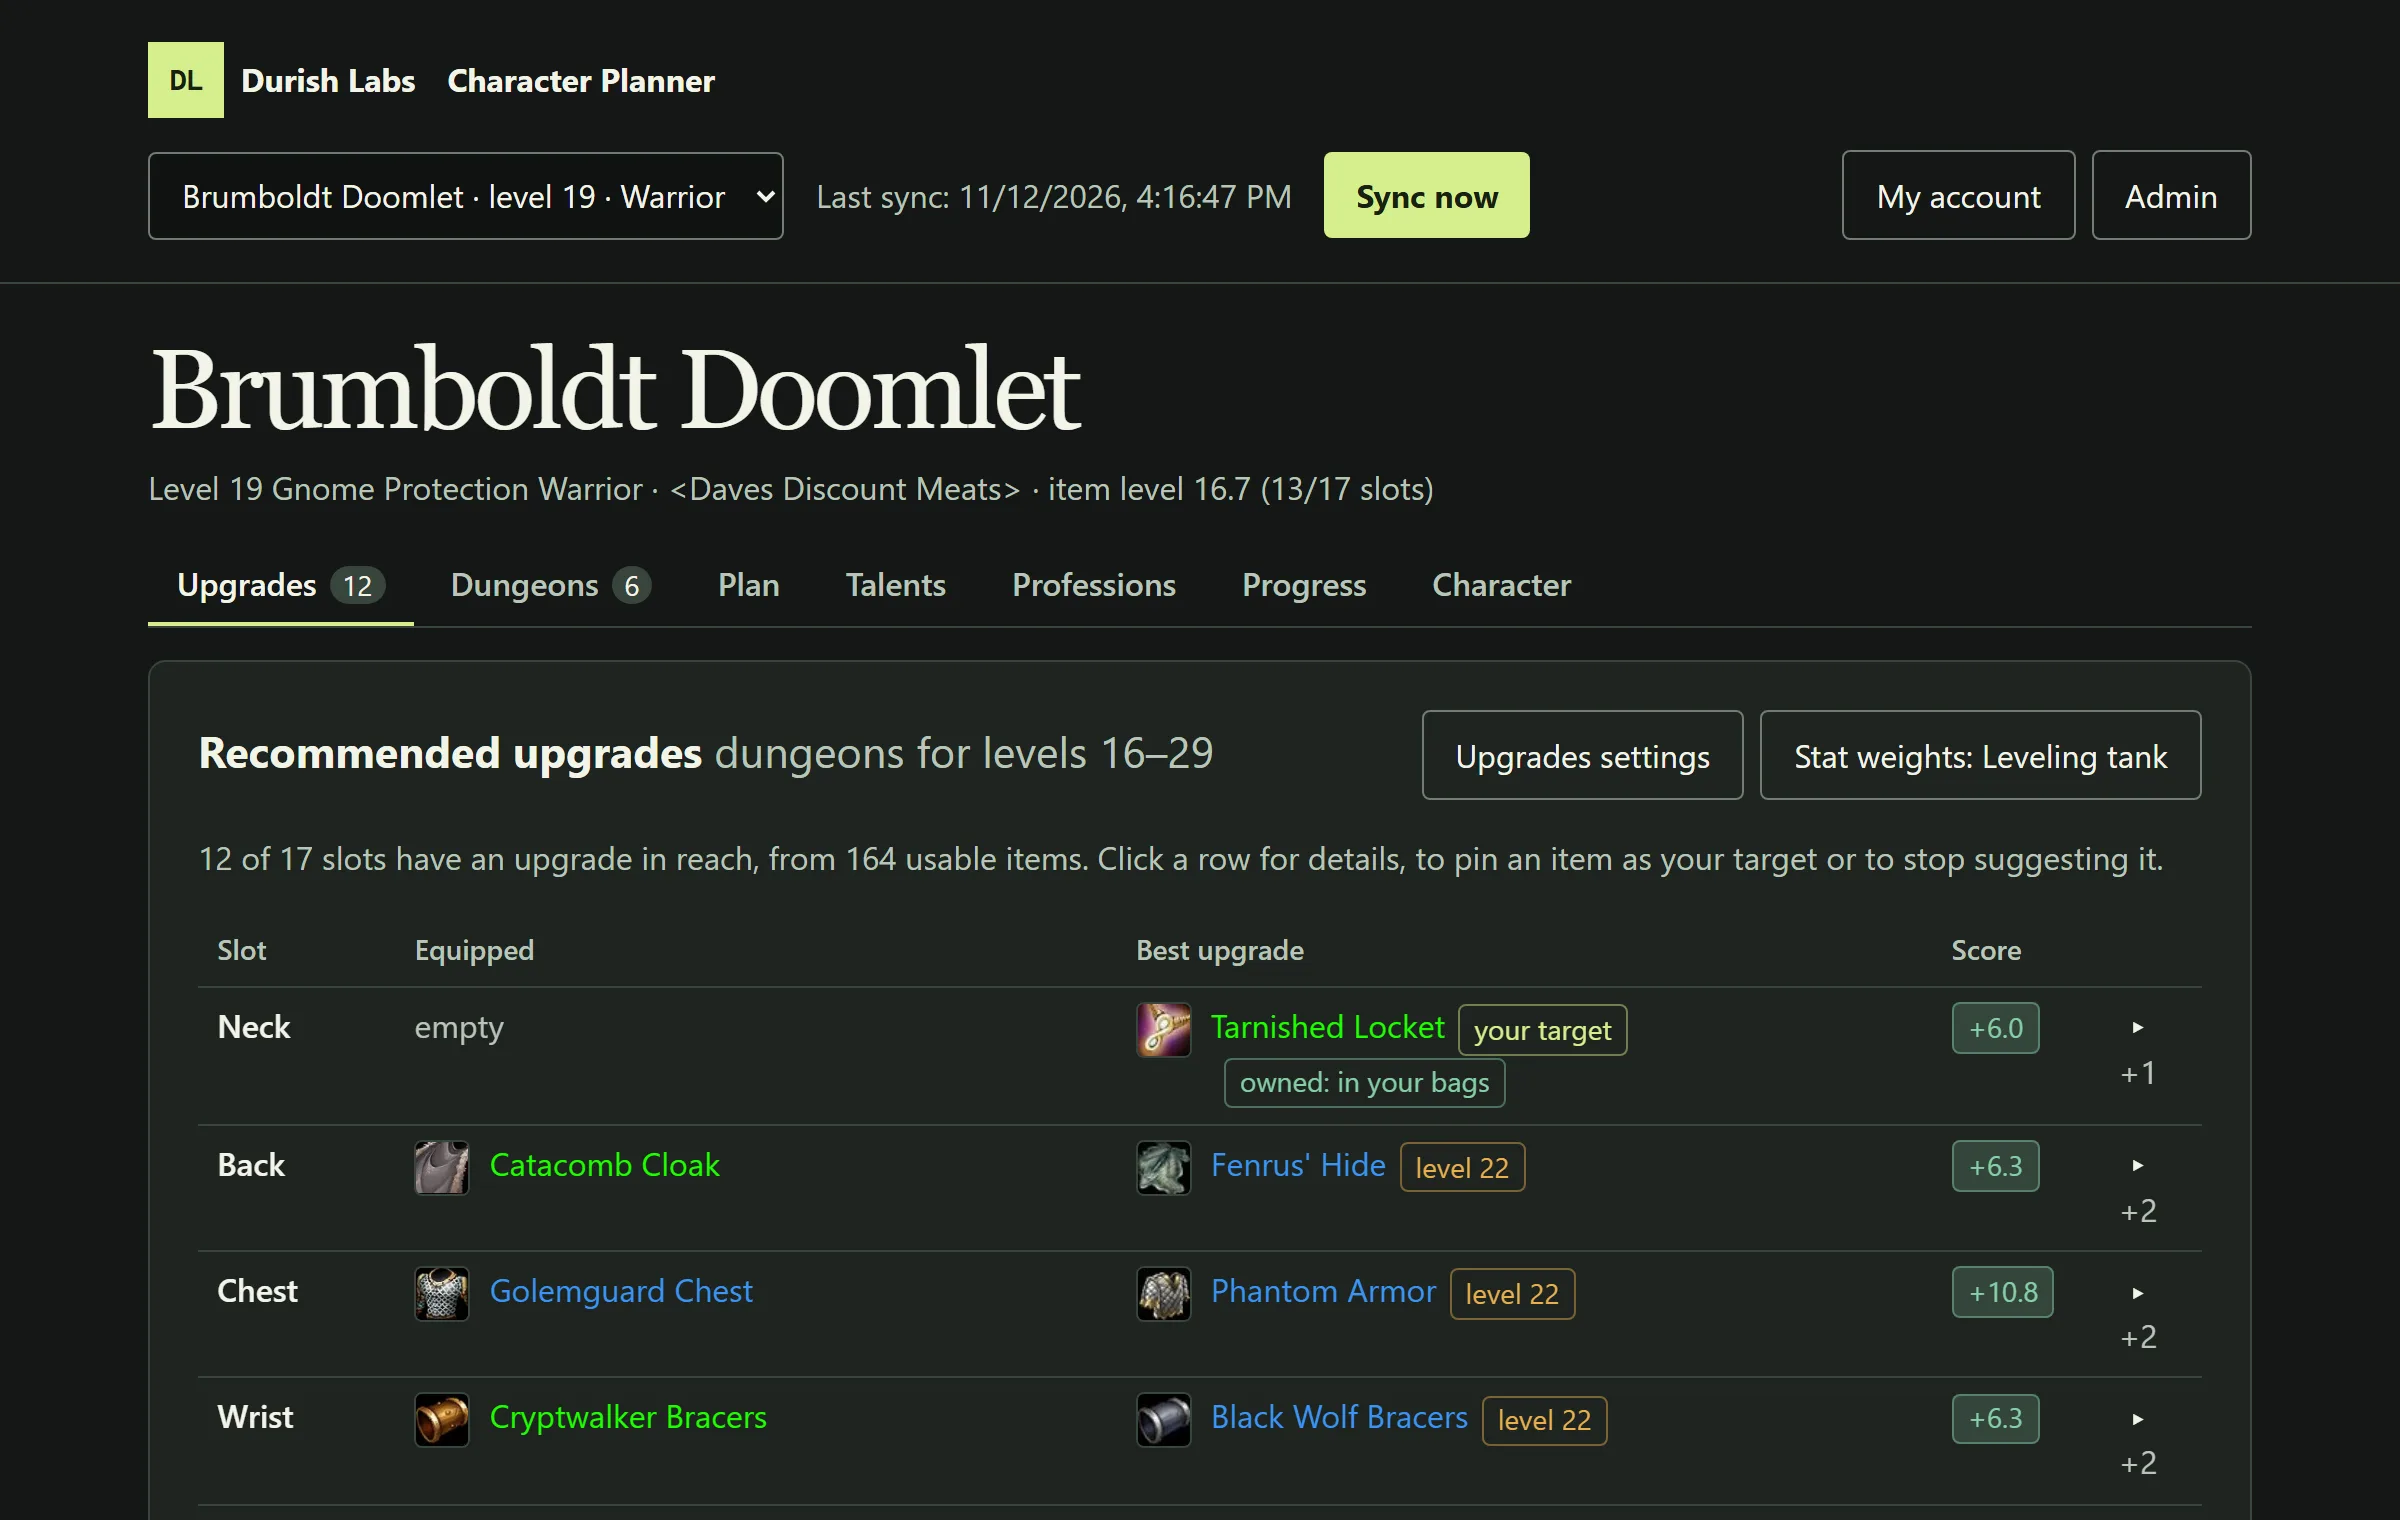
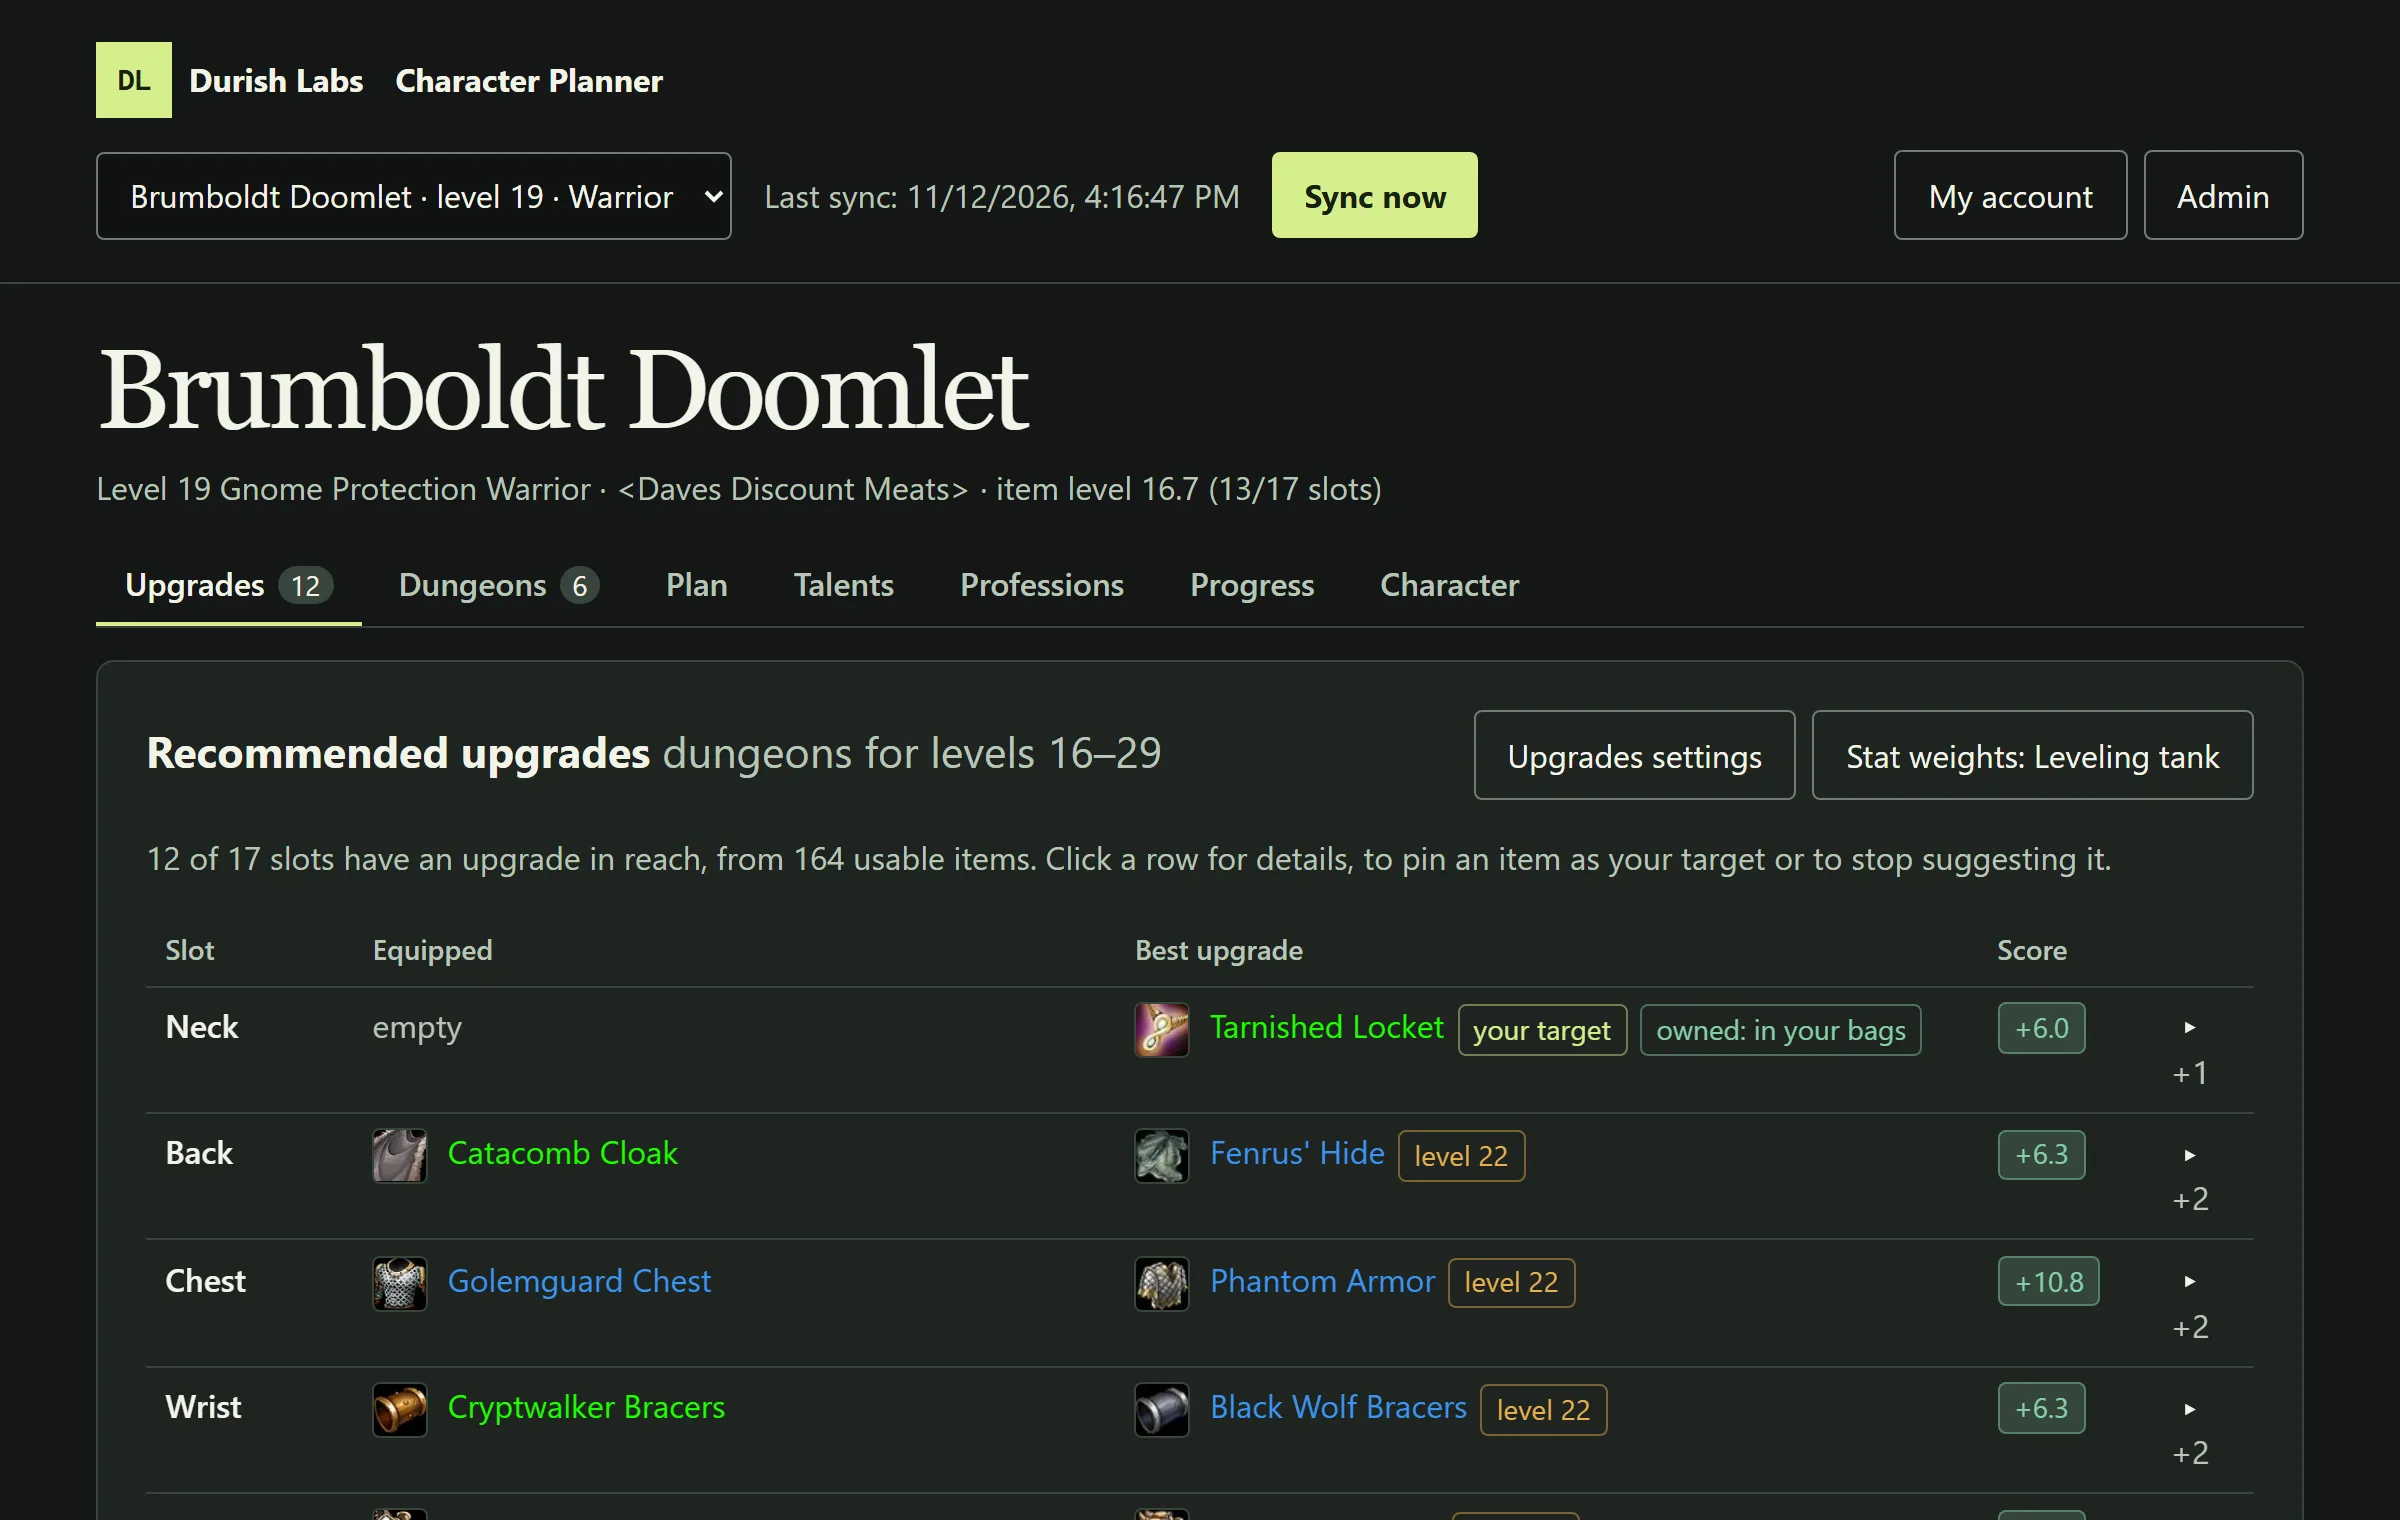
Use the shared page width
The page and the masthead's padding used a hard-coded 1100px; they now
use the shared --wrap token (72rem) from DurishLabsPortfolio's DESIGN.md,
as the portfolio does, so all three sites line up at the same width. The
README's screenshot is retaken.

diff --git a/frontend/src/index.css b/frontend/src/index.css
@@ -129,7 +129,7 @@ a:hover {
   flex-wrap: wrap;
   align-items: center;
   gap: var(--space-4);
-  padding: 1.3rem max(var(--space-4), calc((100% - 1100px) / 2 + var(--space-5)));
+  padding: 1.3rem max(var(--space-4), calc((100% - var(--wrap)) / 2 + var(--space-5)));
   border-bottom: 1px solid var(--line);
 }
 

diff --git a/frontend/src/App.css b/frontend/src/App.css
@@ -1,5 +1,5 @@
 main {
-  max-width: 1100px;
+  max-width: var(--wrap);
   margin: 0 auto;
   padding: 1.5rem;
 }
